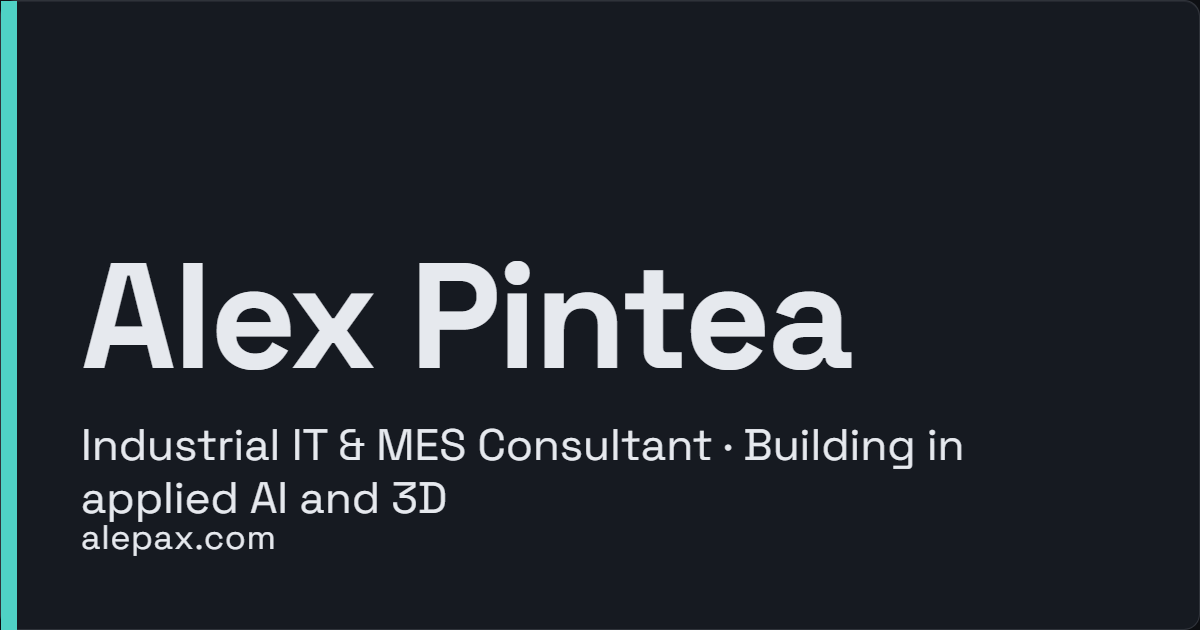
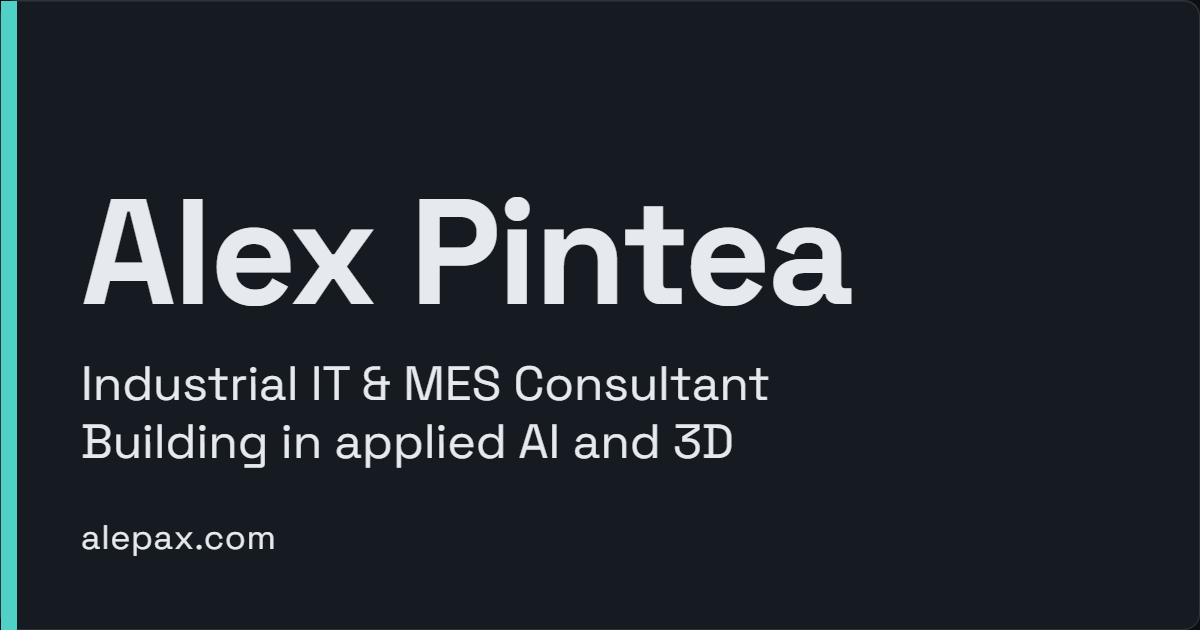
feat(og): break the about subtitle at the dot and add space above the mark

Changed region(s): [[0.0617, 0.3016, 0.7092, 0.6333], [0.0617, 0.6635, 0.8017, 0.8444]]

diff --git a/assets/og/template.html b/assets/og/template.html
@@ -1,4 +1,4 @@
-<!doctype html>
+<!doctype html>
 <html lang="en" data-theme="dark">
 <head>
 <meta charset="utf-8">
@@ -9,8 +9,9 @@
 	.card { position: relative; box-sizing: border-box; width: 1200px; height: 630px; padding: 72px 80px; }
 	.bar { position: absolute; left: 0; top: 0; width: 16px; height: 630px; background: var(--accent); }
 	.kicker { margin: 0; font-size: 30px; letter-spacing: 0.14em; text-transform: uppercase; color: var(--accent); }
-	.name { margin: 120px 0 0; font-size: 150px; line-height: 1; font-weight: 700; letter-spacing: -0.02em; }
-	.title { margin: 28px 0 0; font-size: 44px; line-height: 1.2; max-width: 1040px; }
+	.name { margin: 56px 0 0; font-size: 150px; line-height: 1; font-weight: 700; letter-spacing: -0.02em; }
+	.title { margin: 28px 0 0; font-size: 48px; line-height: 1.2; max-width: 1040px; }
+	.title .ln { display: block; white-space: nowrap; }
 	.mark { position: absolute; left: 80px; bottom: 64px; font-size: 34px; letter-spacing: 0.02em; }
 </style>
 </head>
@@ -27,7 +28,13 @@
 	var k = document.getElementById('kicker');
 	k.textContent = q.get('type') || '';
 	if (q.get('kicker') === '0') k.style.visibility = 'hidden'; // keeps the layout identical across images
-	document.getElementById('title').textContent = q.get('title') || '';
+	var t = document.getElementById('title');
+	(q.get('title') || '').split('\n').forEach(function (line) {
+		var s = document.createElement('span');
+		s.className = 'ln';
+		s.textContent = line;
+		t.appendChild(s);
+	});
 </script>
 </body>
 </html>
